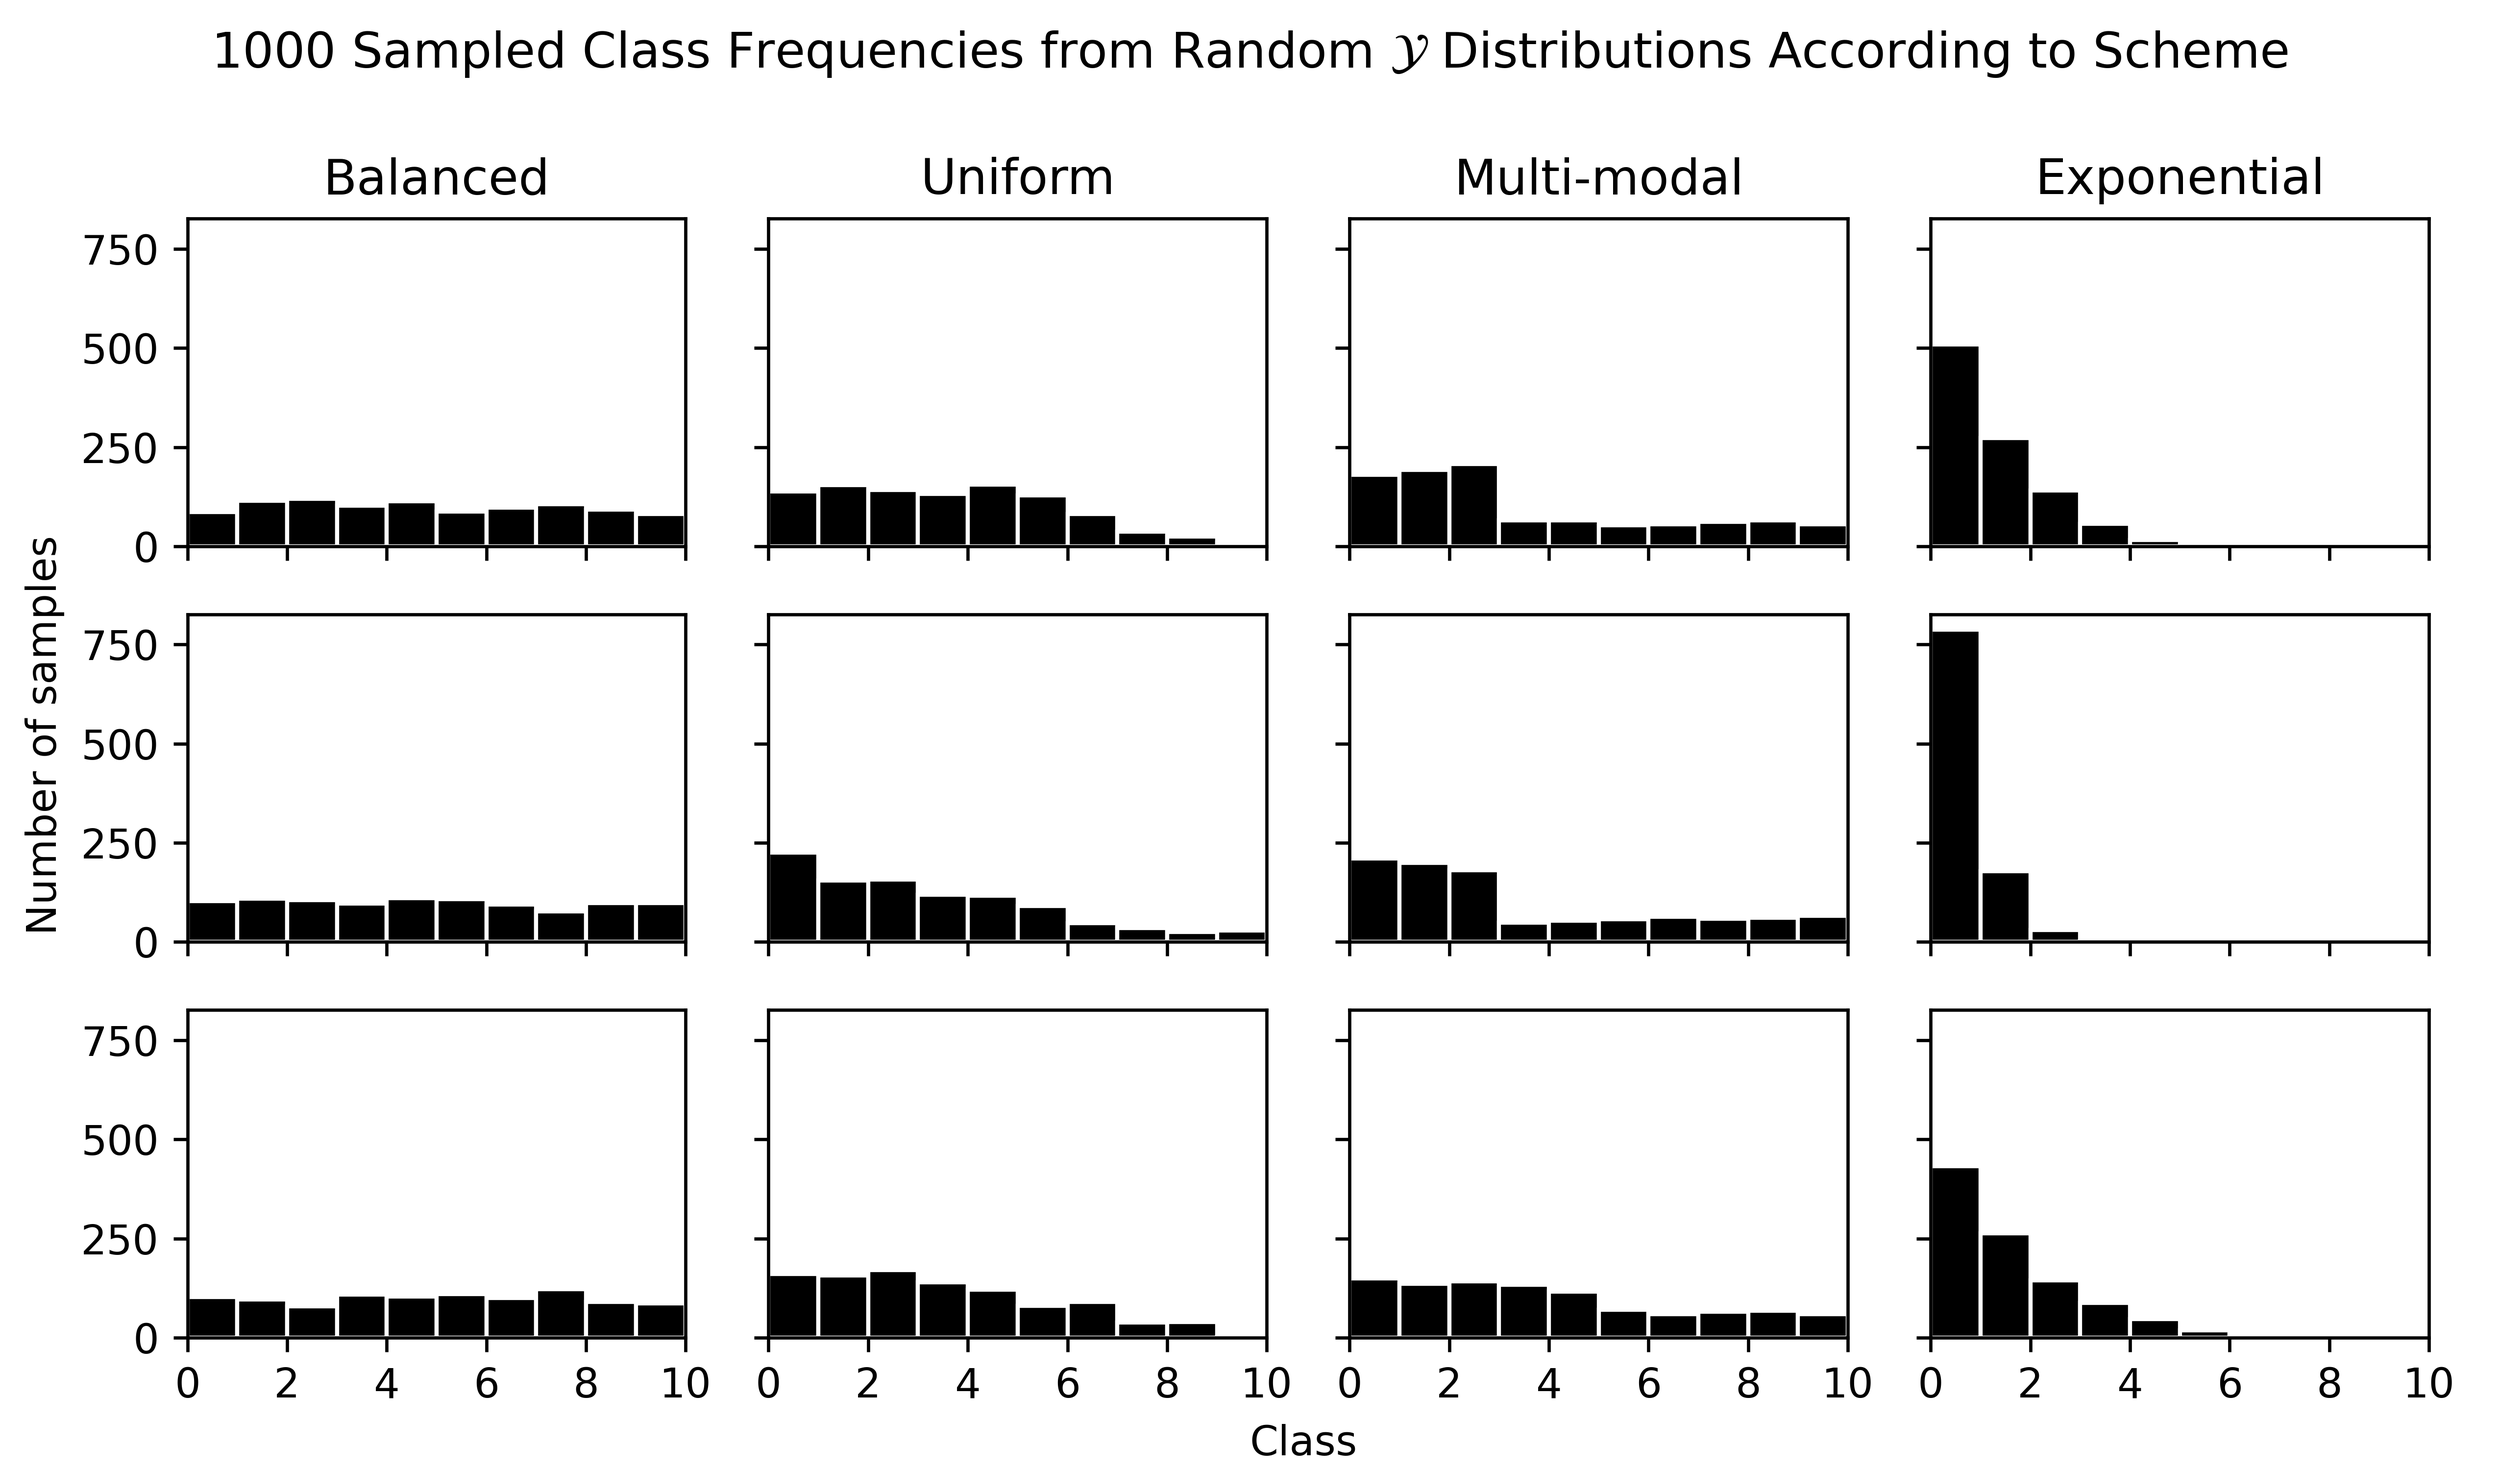
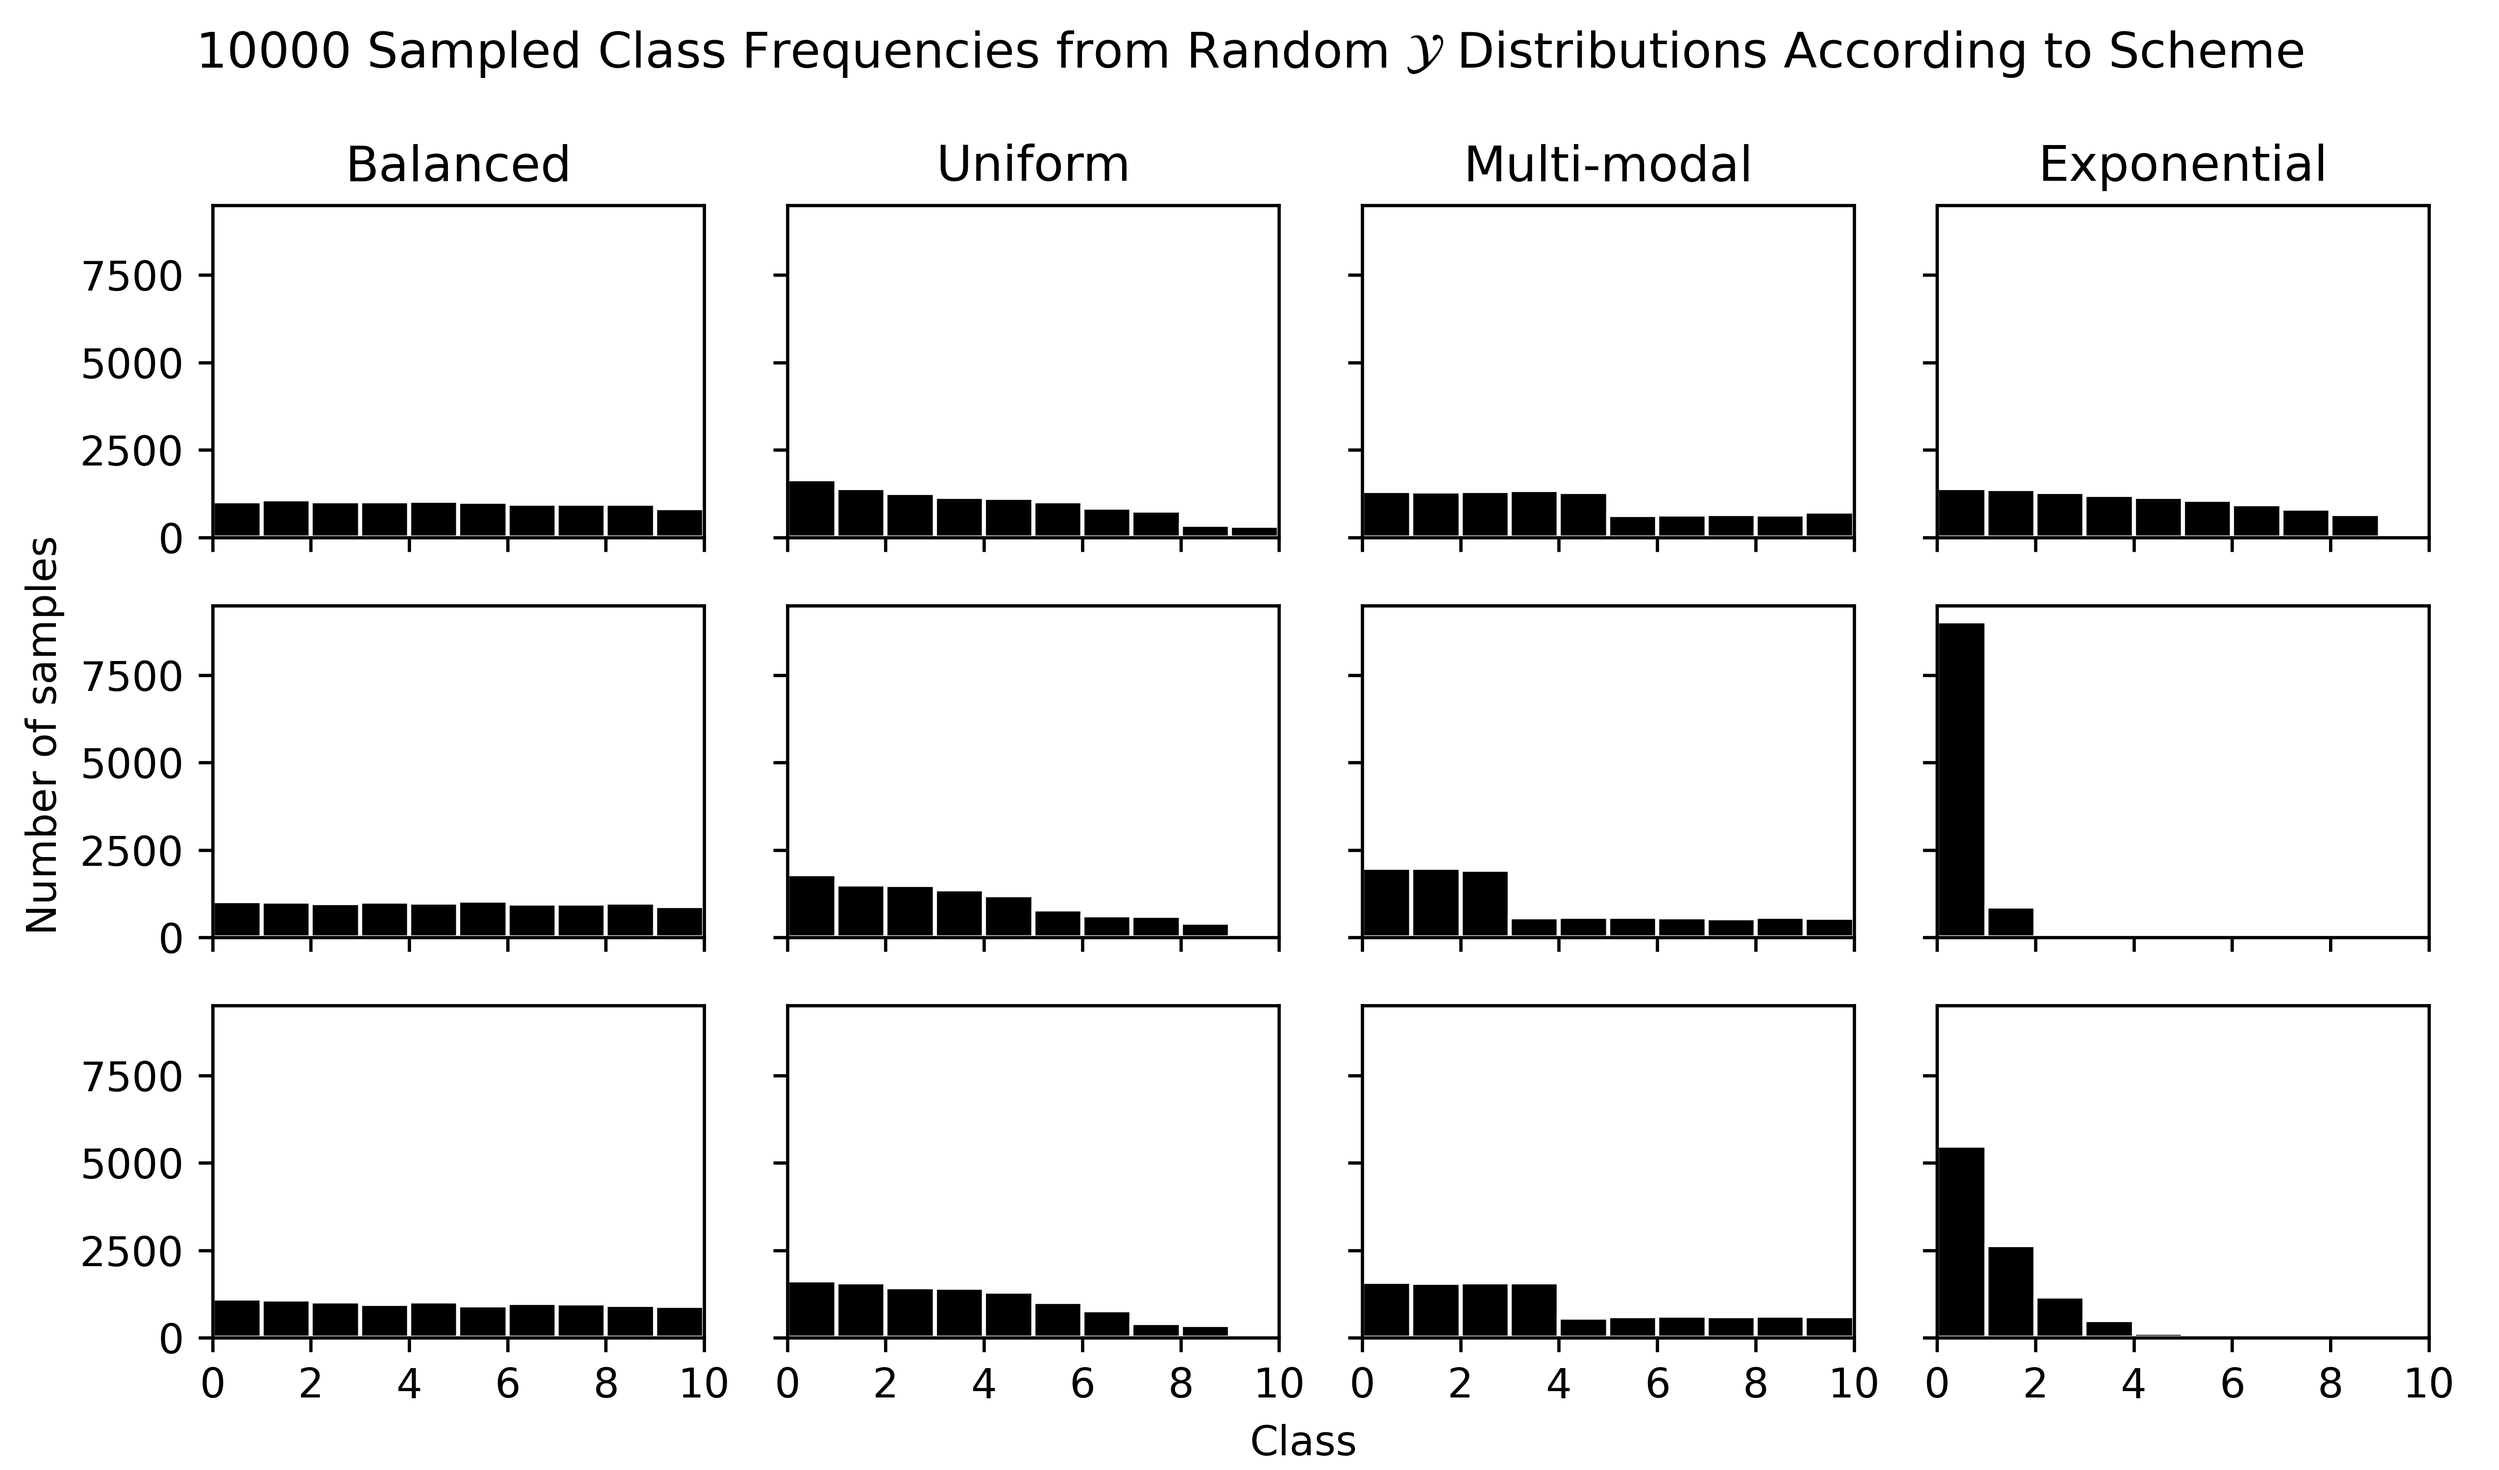
implement rejection sampling to ensure y always has all classes

diff --git a/test_dists.py b/test_dists.py
@@ -17,6 +17,7 @@ from irrCAC.raw import CAC
 from matplotlib.axes import Axes
 from matplotlib.figure import Figure
 from numpy import ndarray
+from numpy.random import Generator
 from numpy.typing import ArrayLike
 from pandas import DataFrame, Series
 from scipy.stats.contingency import association, crosstab
@@ -28,25 +29,55 @@ from tqdm import tqdm
 from tqdm.contrib.concurrent import process_map
 from typing_extensions import Literal
 
-from demo import Y_DIST_ORDER, get_p
+from demo import Y_DIST_ORDER, get_p, rejection_sample
 
 matplotlib.use("QtAgg")
 
-if __name__ == "__main__":
 
+def get_exp_p(n_classes: int, rng: Generator, max_scale: float = 20) -> ndarray:
+    # we want 1 / s**20 = 100, so that the majority class is 100 times more likely
+    # than the minority. That is
+    # s**20 = (1/100) = 10**-2
+    # 20 * log10(s) = log10( 10**-2) = -2
+    # log10(s) = -0.1
+    # s = 10**-0.1 = 0.7943282347
+    pmin = 0.7943282347
+    scale = rng.uniform(1 / 10, max_scale)
+    p = np.linspace(pmin, 1, n_classes) ** scale
+    p /= p.sum()
+    p = -np.sort(-p)
+    return p
+
+
+def plot_samples() -> None:
     rng = np.random.default_rng()
+    fig, axes = plt.subplots(nrows=8, ncols=14)
+    for ax in axes.flat:
+        n_classes = int(rng.integers(3, 50, size=[1]))
+        n_modes = rng.integers(0, ceil(n_classes / 5)) if "multi" in dist else None
+        # ps, modes = get_p(dist=dist, n_classes=n_classes, rng=rng, n_modes=n_modes)
+        ps = get_exp_p(n_classes=n_classes, rng=rng)
+        classes = list(range(n_classes))
+        # samples = rng.choice(classes, p=ps, size=1000)
+        samples = rejection_sample(classes=classes, size=1000, p=ps, rng=rng)
+        ax.hist(
+            samples, bins=list(range(n_classes + 1)), color="black", edgecolor="white"
+        )
+        missing = 0
+        for c in classes:
+            if c not in samples:
+                missing += 1
+        if missing > 0:
+            ax.set_title(f"Missing classes: {missing}")
+
+    fig.suptitle(f"Dist = {dist}")
+    fig.set_size_inches(w=32, h=24)
+    fig.tight_layout()
+    plt.show()
+
+
+if __name__ == "__main__":
     # for dist in Y_DIST_ORDER:
-    for dist in ["balanced", "unif"]:
-
-        fig, axes = plt.subplots(nrows=8, ncols=14)
-        for ax in axes.flat:
-            n_classes = int(rng.integers(3, 50, size=[1]))
-            n_modes = rng.integers(0, ceil(n_classes / 5)) if "multi" in dist else None
-            ps, modes = get_p(dist=dist, n_classes=n_classes, rng=rng, n_modes=n_modes)
-            samples = rng.choice(list(range(n_classes)), p=ps, size=50000)
-            ax.hist(samples, bins=n_classes, color="black")
-
-        fig.suptitle(f"Dist = {dist}")
-        fig.set_size_inches(w=32, h=24)
-        fig.tight_layout()
-        plt.show()
+    # for dist in ["balanced", "unif", "exp"]:
+    for dist in ["exp"]:
+        plot_samples()

diff --git a/demo.py b/demo.py
@@ -395,8 +395,15 @@ def get_p(
         p /= p.sum()
         p = -np.sort(-p)
     elif "exp" in dist:
-        scale = rng.uniform(1 / 10, 20)
-        p = np.linspace(0, 1, n_classes) ** scale
+        # we want 1 / pmin**20 = 100, so that the majority class is 100 times more likely
+        # than the minority. That is
+        # pmin**20 = (1/100) = 10**-2
+        # 20 * log10(pmin) = log10( 10**-2) = -2
+        # log10(pmin) = -0.1
+        # pmin = 10**-0.1 = 0.7943282347
+        pmin = 0.7943282347
+        scale = rng.uniform(0.1, 20)  # 0.1 is almost like a uniform, visually
+        p = np.linspace(pmin, 1, n_classes) ** scale
         p /= p.sum()
         p = -np.sort(-p)
     elif "step" in dist:
@@ -406,6 +413,18 @@ def get_p(
     if "-r" in dist:
         p = np.sort(p)
     return p, n_modes
+
+
+def rejection_sample(
+    classes: List[int], size: int, p: Optional[ndarray], rng: Generator
+) -> ndarray:
+    """Use rejection sampling to throw out samples missing some class labels"""
+    samples = rng.choice(classes, size=size, p=p)
+    counts = np.bincount(samples, minlength=classes[-1] + 1)
+    while np.any(counts == 0):
+        samples = rng.choice(classes, size=size, p=p)
+        counts = np.bincount(samples, minlength=classes[-1] + 1)
+    return samples
 
 
 def compare_error_styles(args: Namespace) -> Tuple[DataFrame, DataFrame]:
@@ -437,7 +456,8 @@ def compare_error_styles(args: Namespace) -> Tuple[DataFrame, DataFrame]:
 
     CLASSES = list(range(n_classes))
     yp, n_modes = get_p(ydist, n_classes, rng)
-    y = rng.choice(CLASSES, size=N, p=yp)  # y_true
+    # we really do need to ensure all classes are present in `y` for sim to make sense
+    y = rejection_sample(classes=CLASSES, size=N, p=yp, rng=rng)
     ys = [y.copy() for _ in range(5)]
     n_max_err = ceil(s * len(y))
     err_max_idx = rng.permutation(len(y))[:n_max_err]
@@ -466,7 +486,9 @@ def compare_error_styles(args: Namespace) -> Tuple[DataFrame, DataFrame]:
     elif error_style == "dependent":
         # In this case, predictions are dependent upon a base set of predictions.
         # This means error sets will be dependent (likely correlated) too.
-        # Here, `r` essentially determines the independence
+        # Here, `r` essentially determines the independence. We do NOT use
+        # rejection sampling here, because it need not be the case that an
+        # algorithm always predicts at least one label from each class.
         pred_base = rng.choice(CLASSES, size=n_max_err, p=p)
         for yy in ys:
             pred_rand = rng.choice(CLASSES, size=n_max_err, p=p)

diff --git a/src/figures/p_distributions.py b/src/figures/p_distributions.py
@@ -28,6 +28,7 @@ OUTDIR.mkdir(exist_ok=True, parents=True)
 
 def make_plot() -> None:
     SEED = 9
+    N = 10000
     print(SEED)
     n_classes = 10
     classes = list(range(n_classes))
@@ -48,7 +49,7 @@ def make_plot() -> None:
             p = get_p(
                 dist=dist, n_classes=n_classes, rng=rng, n_modes=rng.choice([3, 4, 5])
             )[0]
-            y = rng.choice(classes, size=1000, replace=True, p=p)
+            y = rng.choice(classes, size=N, replace=True, p=p)
             bins = ax.hist(
                 y, color="black", bins=list(range(n_classes + 1)), edgecolor="white"
             )[1]
@@ -63,12 +64,12 @@ def make_plot() -> None:
             ax.set_xlim(0, n_classes)
     fig.set_size_inches(h=5, w=8.5)
     fig.suptitle(
-        r"1000 Sampled Class Frequencies from Random $\mathcal{Y}$ Distributions According to Scheme"
+        rf"{N} Sampled Class Frequencies from Random $\mathcal{{Y}}$ Distributions According to Scheme"
     )
     fig.text(x=0.5, y=0.01, s="Class")
     fig.text(y=0.5, x=0.01, s="Number of samples", rotation="vertical", va="center")
     fig.tight_layout()
-    fig.subplots_adjust(left=0.075, bottom=0.09)
+    fig.subplots_adjust(left=0.085, bottom=0.09)
     outfile = OUTDIR / "sample_p_distributions.png"
     fig.savefig(str(outfile), dpi=600)
     print(f"Saved plot to {outfile}")

diff --git a/notes/notes.md b/notes/notes.md
@@ -205,18 +205,20 @@ $\{0, 1, \dots, c - 1\}$, by sampling from a random variable $\mathcal{Y}$
 which has class probabilities $p_1, \dots, p_c$. Without loss of generality, we
 force $p_1 \ge p_2 \ge \dots \ge p_c$, and then generate these class
 probabilities randomly randomly according to the various schemes described in
-[Appendix A](#appendix-a-generating-discrete-distributions).
+[Appendix A](#appendix-a-generating-discrete-distributions) or the [source
+code `get_p` function](https://github.com/DM-Berger/kappa/blob/master/demo.py#L353-L408).
+Most notably, we end up with *four distinct families of distributions for
+$\mathcal{Y}$*, ordered from least to most skewed $p_i$ distributions: **balanced**,
+**uniform**, **multi-modal**, and **exponential**:
+
+![Example true label distributions](../figures/sample_p_distributions.png)
+
+**Figure 1. Simulated true label distributions**. Each subplot depicts the
+distribution of a random $\symbfit{y}$ sampled from a distribution $\mathcal{Y}$
+defined by the scheme in the column title.
 
 
-some test data $\symbfit{x}$ will yield predictions $\hat{\symbfit{y}}_i$  with
-correct labels $\symbfit{y}$ shared across evaluations. We can *ignore* $f$ and
-$\symbfit{x}$ here and model $\symbfit{y}$ as being sampled from a discrete
-random variable $\mathcal{Y}$  with possible values $\{0, 1, ..., c-1\}$ for $c$
-classes, and corresponding probabilities $\{p_1, \dots p_c\}$. We can model the
-predictions $\hat{\symbfit{y}}_i$ as samples from a different discrete random variable
-$\hat{\mathcal{Y}}$. The we can investigate the behaviour of various
-reproducibility metrics by specifying different distributions and relationships
-for $\mathcal{Y}$ and $\hat{\mathcal{Y}}$.
+
 
 We can further add thoroughness to the simulation by specifying the $p_i$
 values probabilistically. That is, we can choose a distribution $\mathcal{D}$
